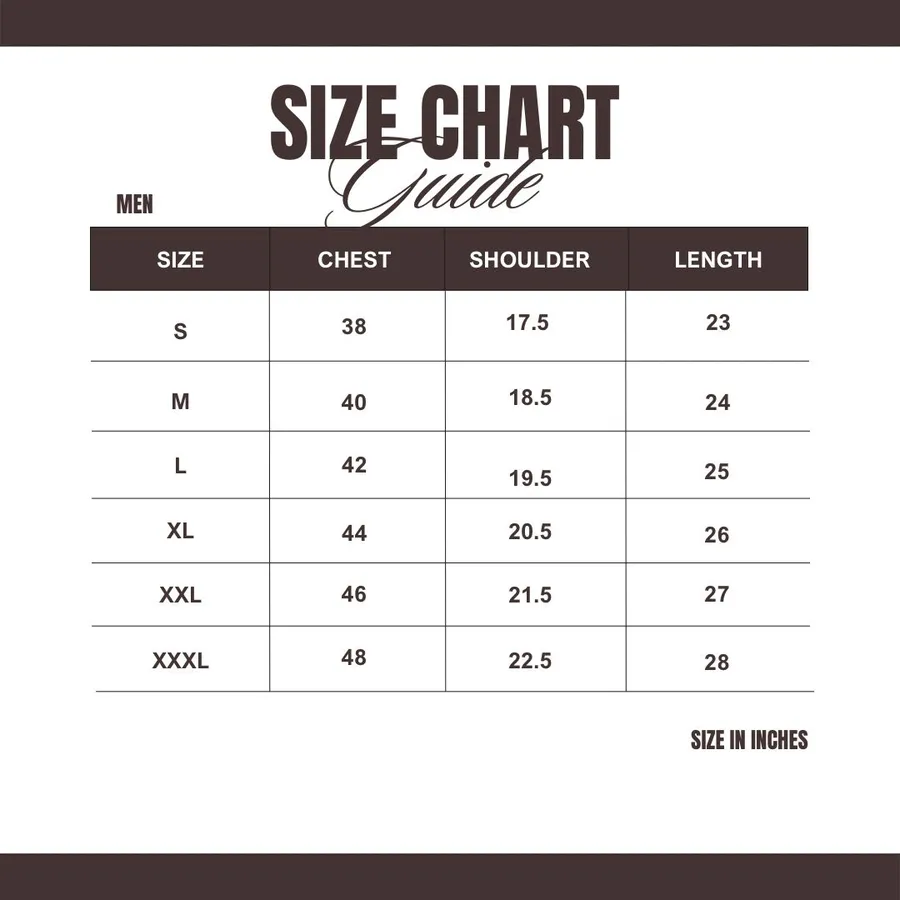
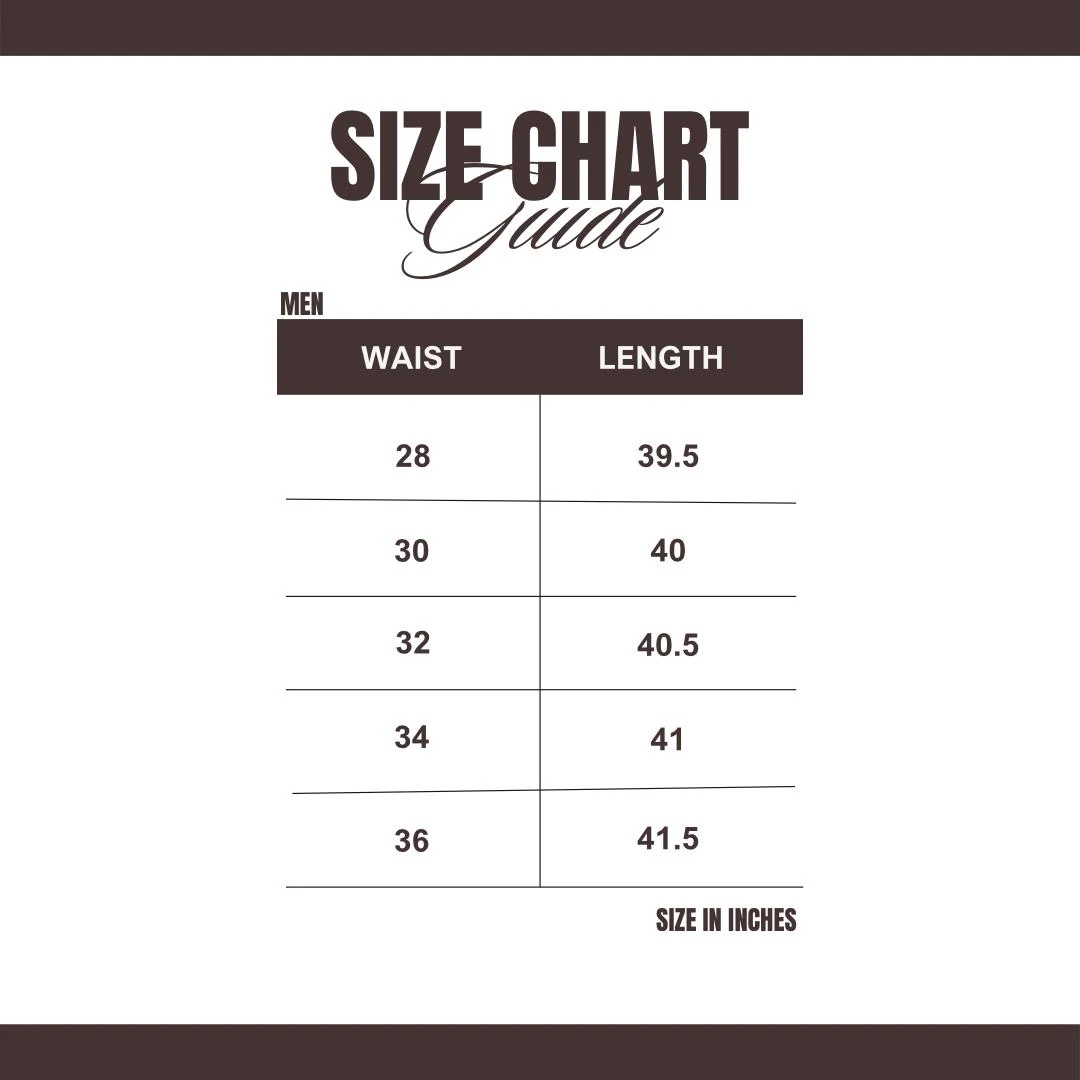
Size guide: new waist/length charts, shown on bottomwear only
Replace the men/women size-guide images with the new waist/length
charts, fit the modal to the square chart, and show the Size Guide
link only for bottomwear (the chart measures waist/length).

diff --git a/src/components/product-detail-actions.tsx b/src/components/product-detail-actions.tsx
@@ -58,13 +58,15 @@ export function ProductDetailActions({ product }: { product: Product }) {
       <div className="mb-6">
         <div className="mb-3 flex items-center justify-between">
           <span className="label text-[11px]">Size</span>
-          <button
-            type="button"
-            onClick={() => setGuideOpen(true)}
-            className="text-xs text-muted underline underline-offset-4 hover:text-ink"
-          >
-            Size Guide
-          </button>
+          {product.subCategory === "bottomwear" && (
+            <button
+              type="button"
+              onClick={() => setGuideOpen(true)}
+              className="text-xs text-muted underline underline-offset-4 hover:text-ink"
+            >
+              Size Guide
+            </button>
+          )}
         </div>
         <div className="grid grid-cols-6 gap-2">
           {product.sizes.map((s) => {
@@ -136,7 +138,7 @@ export function ProductDetailActions({ product }: { product: Product }) {
             >
               &times;
             </button>
-            <div className="relative aspect-[3/4] w-full">
+            <div className="relative aspect-square w-full">
               <Image
                 src={guideImage}
                 alt={`${product.category} size guide`}
